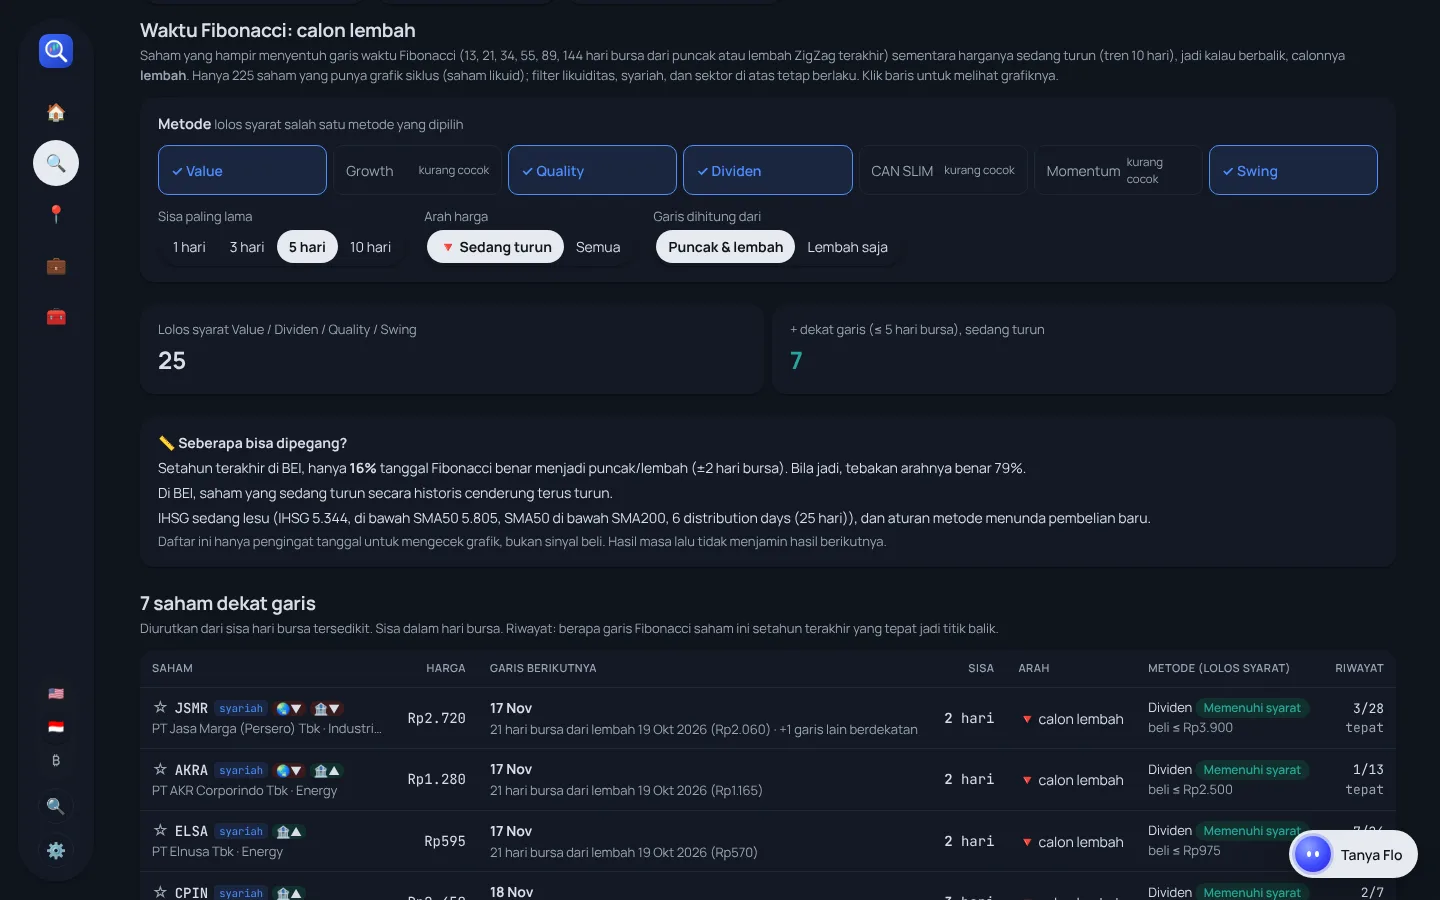
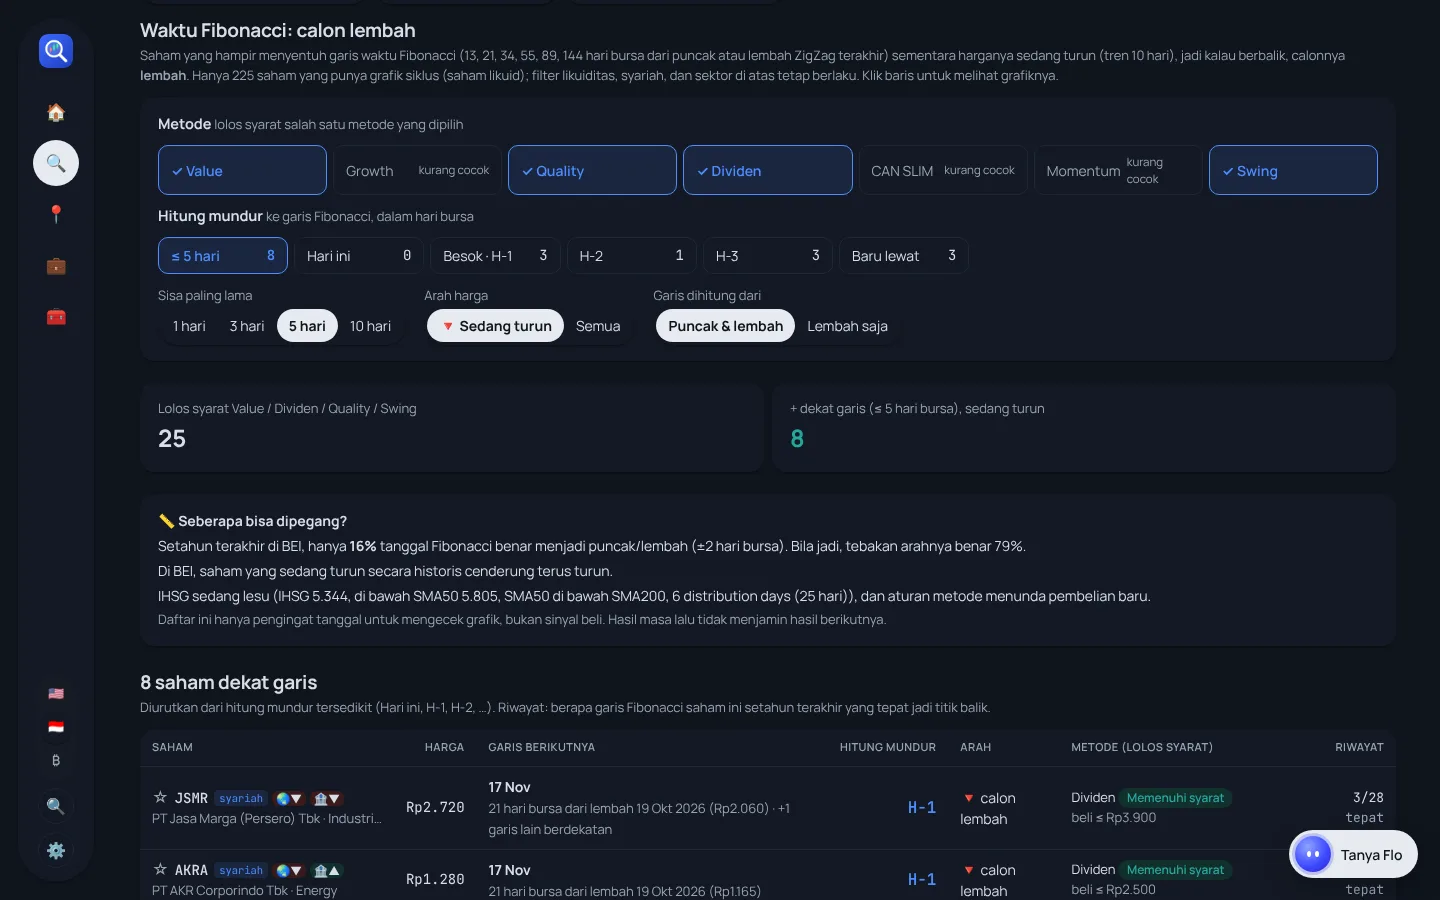
Waktu Fibonacci: hitung mundur Hari ini, H-1, H-2, H-3, dan Baru lewat
Pilihan hitung mundur baru di kartu pengaturan (dihitung dari tanggal
hari ini di zona bursa). Baru lewat menampilkan garis yang lewat 1-3
hari bursa dengan tanda Memantul / Belum jelas / Masih turun dari harga
penutupan. Halaman depan ChartFlow dan galeri diperbarui.

Claude-Session: https://claude.ai/code/session_0176tunsp4Dom3F1p2VBRfoD

diff --git a/index.html b/index.html
@@ -2783,22 +2783,39 @@ function renderScreen(box){
   $("fSave").addEventListener("click",()=>{ const n=prompt("Nama filter favorit:", "Filter "+(fstate().saved.length+1)); if(!n) return; upd(s=>{ s.saved.push({name:n.slice(0,30),rules:s.cur.map(r=>r.slice())}); s.saved=s.saved.slice(-12); }); });
 }
 // ---------- Waktu Fibonacci: saham yang mendekati garis waktu Fibonacci (calon lembah), digabung metode ----------
-const FT_KEY=WP+"ft", FT_DEF=["value","dividend","quality","swing"], FT_SIDE=["growth","momentum","canslim"], FT_N=[1,3,5,10];
+const FT_KEY=WP+"ft", FT_DEF=["value","dividend","quality","swing"], FT_SIDE=["growth","momentum","canslim"], FT_N=[1,3,5,10], FT_CD=["all","0","1","2","3","past"];
 function ftState(){ let s=null; try{ s=JSON.parse(store.get(FT_KEY)||"null"); }catch(e){} s=s&&typeof s==="object"?s:{};
-  return {m:Array.isArray(s.m)?s.m.filter(x=>MID[x]):FT_DEF.slice(), n:FT_N.includes(s.n)?s.n:3, dir:s.dir==="all"?"all":"L", from:s.from==="L"?"L":"all"}; }
-function ftBase(){ return [CYC&&CYC.date,DATA&&DATA.priceDate].filter(Boolean).sort().pop()||""; }
-// Garis waktu Fibonacci yang belum lewat untuk satu saham, diurutkan dari yang paling dekat. k = sisa hari bursa.
-function ftLines(a,st){ const fut=(CYC&&CYC.future)||[], base=ftBase();
-  return (a.tz||[]).filter(x=>x[0]>base&&(st.from==="all"||x[3]===st.from))
-    .map(x=>({d:x[0],f:x[1],od:x[2],ot:x[3],ov:x[4],k:fut.filter(y=>y>base&&y<=x[0]).length}))
-    .filter(x=>x.k>=1).sort((p,q)=>p.k-q.k||p.f-q.f); }
+  return {m:Array.isArray(s.m)?s.m.filter(x=>MID[x]):FT_DEF.slice(), n:FT_N.includes(s.n)?s.n:3, cd:FT_CD.includes(s.cd)?s.cd:"all", dir:s.dir==="all"?"all":"L", from:s.from==="L"?"L":"all"}; }
+function ftToday(){ return new Date(Date.now()+(IS_ID?420:-300)*6e4).toISOString().slice(0,10); } // tanggal di zona bursa (WIB / New York)
+// Garis waktu Fibonacci yang belum lewat, diurutkan dari yang paling dekat. k = hitung mundur dalam hari bursa dari hari ini (0 = hari ini).
+function ftLines(a,st){ const fut=(CYC&&CYC.future)||[], today=ftToday();
+  return (a.tz||[]).filter(x=>x[0]>=today&&(st.from==="all"||x[3]===st.from))
+    .map(x=>({d:x[0],f:x[1],od:x[2],ot:x[3],ov:x[4],k:fut.filter(y=>y>today&&y<=x[0]).length}))
+    .sort((p,q)=>p.k-q.k||p.f-q.f); }
+const ftH=k=>k===0?"Hari ini":"H-"+k;
+// Garis yang baru lewat (1–3 hari bursa sesudahnya) dan apakah harga sudah memantul. Perlu harga harian (series.json).
+function ftPast(o,a,st){
+  const v=SER&&SER.stocks&&SER.stocks[o.ticker], D=SER&&SER.dates; if(!v||!D) return null;
+  const n=v.length, P=(a.tzp||[]).filter(x=>(st.from==="all"||x[3]===st.from)&&(st.dir==="all"||x[10]==="L"))
+    .map(x=>({x,i:D.indexOf(x[0])})).filter(y=>y.i>=0&&n-1-y.i>=1&&n-1-y.i<=3).sort((p,q)=>q.i-p.i);
+  if(!P.length) return null;
+  const {x,i}=P[0], at=v[i], last=v[n-1]; if(at==null||last==null) return null;
+  const win=v.slice(Math.max(0,i-2)).filter(z=>z!=null), lo=Math.min(...win), prev=v.slice(Math.max(0,n-4),n-1).filter(z=>z!=null), pmax=prev.length?Math.max(...prev):null;
+  const s=pmax!=null&&last>pmax&&last>at?"up":last<at?"dn":"flat";
+  return {d:x[0],f:x[1],od:x[2],ot:x[3],ov:x[4],since:n-1-i,at,last,lo,s,up:(last/lo-1)*100,chg:(last/at-1)*100,gd:x[10]};
+}
 function ftList(st){
   const has=filtered().filter(o=>CYC&&CYC.stocks&&CYC.stocks[o.ticker]);
   const lolos=has.filter(o=>!st.m.length||st.m.some(mid=>mget(o,mid).p));
   const res=[];
-  lolos.forEach(o=>{ const a=CYC.stocks[o.ticker]; if(st.dir==="L"&&a.tzdir!=="L") return;
-    const L=ftLines(a,st).filter(x=>x.k<=st.n); if(!L.length) return; res.push({o,a,x:L[0],more:L.length-1}); });
-  res.sort((p,q)=>p.x.k-q.x.k||q.more-p.more||(q.o.mcap||0)-(p.o.mcap||0));
+  if(st.cd==="past"){
+    lolos.forEach(o=>{ const a=CYC.stocks[o.ticker], p=ftPast(o,a,st); if(p) res.push({o,a,p}); });
+    const rk={up:0,flat:1,dn:2}; res.sort((p,q)=>rk[p.p.s]-rk[q.p.s]||p.p.since-q.p.since||(q.o.mcap||0)-(p.o.mcap||0));
+  } else {
+    lolos.forEach(o=>{ const a=CYC.stocks[o.ticker]; if(st.dir==="L"&&a.tzdir!=="L") return;
+      const L=ftLines(a,st).filter(x=>st.cd==="all"?x.k<=st.n:x.k===+st.cd); if(!L.length) return; res.push({o,a,x:L[0],more:L.length-1}); });
+    res.sort((p,q)=>p.x.k-q.x.k||q.more-p.more||(q.o.mcap||0)-(p.o.mcap||0));
+  }
   return {all:has.length,lolos:lolos.length,res};
 }
 function ftTrack(a){ const J=(a.tzp||[]).filter(x=>x[6]!=null); if(!J.length) return '<span class="na">–</span>';
@@ -2806,44 +2823,63 @@ function ftTrack(a){ const J=(a.tzp||[]).filter(x=>x[6]!=null); if(!J.length) re
 function renderFibTime(box){
   if(!CYC&&!CYC_ERR){ box.innerHTML=`<div class="tablebox"><div class="empty">Memuat data siklus…</div></div>`; loadCycles().then(()=>{ if(tab==="fibtime"){ renderTabs(); renderResults(); } }); return; }
   if(!CYC||!CYC.stocks){ box.innerHTML=`<div class="tablebox"><div class="empty">Data siklus belum tersedia. Coba lagi setelah pembaruan data berikutnya.</div></div>`; return; }
-  const st=ftState(), R=ftList(st), TS=tzStat(), mk=(DATA&&DATA.market)||{}, IXN=IS_ID?"IHSG":"S&amp;P 500";
+  const st=ftState();
+  if(!SER){ if(st.cd==="past"){ box.innerHTML=`<div class="tablebox"><div class="empty">Memuat harga harian…</div></div>`; loadSer().then(()=>{ if(tab==="fibtime"){ renderTabs(); renderResults(); } }); return; }
+    loadSer().then(()=>{ if(tab==="fibtime") renderResults(); }); }
+  const R=ftList(st), TS=tzStat(), mk=(DATA&&DATA.market)||{}, IXN=IS_ID?"IHSG":"S&amp;P 500", PAST=st.cd==="past";
   const sv=fn=>{ const s=ftState(); fn(s); store.set(FT_KEY,JSON.stringify(s)); renderTabs(); renderResults(); };
   const chip=m=>{ const on=st.m.includes(m.id), side=FT_SIDE.includes(m.id);
     return `<button type="button" data-ftm="${m.id}" aria-pressed="${on}" style="display:flex;justify-content:space-between;align-items:center;gap:6px;text-align:left;${on?"background:var(--accent-soft);color:var(--accent);border-color:var(--accent);font-weight:600":side?"color:var(--muted)":""}"${side?' title="Metode ini membeli saham yang sedang kuat, jadi jarang bertemu calon lembah"':""}><span>${on?"✓ ":""}${esc(m.name)}</span>${side?'<span style="font-size:11.5px;font-weight:400">kurang cocok</span>':""}</button>`; };
   const seg=(key,opts,cur,label)=>`<div class="seg" role="group" aria-label="${label}">${opts.map(([v,l])=>`<button type="button" data-ft${key}="${v}" aria-pressed="${String(v)===String(cur)}">${l}</button>`).join("")}</div>`;
+  const cdName={all:`≤ ${st.n} hari`,"0":"Hari ini","1":"Besok · H-1","2":"H-2","3":"H-3",past:"Baru lewat"};
+  const cdBtn=k=>{ const on=st.cd===k, n=(k==="past"&&!SER)?null:ftList(Object.assign({},st,{cd:k})).res.length, g=k==="past";
+    return `<button type="button" data-ftc="${k}" aria-pressed="${on}" style="display:flex;justify-content:space-between;align-items:center;gap:6px;${on?(g?"background:var(--good-soft);color:var(--good);border-color:var(--good)":"background:var(--accent-soft);color:var(--accent);border-color:var(--accent)")+";font-weight:600":""}"><span>${cdName[k]}</span>${n!=null?`<span class="num">${n}</span>`:""}</button>`; };
   const mNames=st.m.map(id=>MID[id].name);
-  const rowsH=R.res.slice(0,150).map(({o,a,x,more})=>{
-    const ms=(st.m.length?st.m:M.map(m=>m.id)).filter(mid=>mget(o,mid).p);
-    const mt=ms.map(mid=>{ const u=uv(o,mid), lv=levels(mid,u); return `<div>${esc(MID[mid].name)} ${uchip(u)}${lv?`<br><span class="note">${lv}</span>`:""}</div>`; }).join("");
+  const mCell=o=>{ const ms=(st.m.length?st.m:M.map(m=>m.id)).filter(mid=>mget(o,mid).p);
+    return ms.map(mid=>{ const u=uv(o,mid), lv=levels(mid,u); return `<div>${esc(MID[mid].name)} ${uchip(u)}${lv?`<br><span class="note">${lv}</span>`:""}</div>`; }).join("")||'<span class="na">–</span>'; };
+  const SB={up:["buy","Memantul"],flat:["hold","Belum jelas"],dn:["sell","Masih turun"]};
+  const rowsH=R.res.slice(0,150).map(r=>{ const {o,a}=r;
+    if(PAST){ const p=r.p, b=SB[p.s];
+      return `<tr class="row" data-t="${esc(o.ticker)}" tabindex="0">${stockCell(o)}<td class="num">${usd(o.price)}</td>
+      <td><b>${tgl(p.d)}</b><br><span class="note">${p.f} hari bursa dari ${p.ot==="H"?"puncak":"lembah"} ${tgl(p.od,1)}${p.ov!=null?" ("+usd(p.ov)+")":""}</span></td>
+      <td class="num"><b>${p.since}</b> hari bursa<br><span class="note">sesudahnya</span></td>
+      <td><span class="st ${b[0]}">${b[1]} ${pct(p.chg)}</span><br><span class="note">${p.s==="up"?`di atas penutupan tertinggi 3 hari; +${nf(p.up,1)}% dari terendah ${usd(p.lo)}`:p.s==="dn"?"di bawah harga pada tanggal garis":"belum menembus penutupan tertinggi 3 hari"}</span></td>
+      <td style="font-size:13px">${mCell(o)}</td><td class="num" style="font-size:13px">${ftTrack(a)}</td></tr>`; }
+    const {x,more}=r;
     return `<tr class="row" data-t="${esc(o.ticker)}" tabindex="0">${stockCell(o)}<td class="num">${usd(o.price)}</td>
       <td><b>${tgl(x.d)}</b><br><span class="note">${x.f} hari bursa dari ${x.ot==="H"?"puncak":"lembah"} ${tgl(x.od,1)}${x.ov!=null?" ("+usd(x.ov)+")":""}${more?` · +${more} garis lain berdekatan`:""}</span></td>
-      <td class="num"><b>${x.k}</b> hari</td><td>${dirTxt(a.tzdir)||'<span class="na">–</span>'}</td>
-      <td style="font-size:13px">${mt||'<span class="na">–</span>'}</td><td class="num" style="font-size:13px">${ftTrack(a)}</td></tr>`; }).join("");
+      <td class="num"><b style="font-size:16px;color:var(--accent)">${ftH(x.k)}</b></td><td>${dirTxt(a.tzdir)||'<span class="na">–</span>'}</td>
+      <td style="font-size:13px">${mCell(o)}</td><td class="num" style="font-size:13px">${ftTrack(a)}</td></tr>`; }).join("");
+  const near=PAST?"baru lewat":st.cd==="all"?`dekat garis (≤ ${st.n} hari bursa)`:`garisnya ${st.cd==="0"?"hari ini":"H-"+st.cd}`;
   box.innerHTML=`<div class="rhead"><div class="l"><h2>Waktu Fibonacci${st.dir==="L"?": calon lembah":""}</h2>
       <p class="note">Saham yang hampir menyentuh garis waktu Fibonacci (13, 21, 34, 55, 89, 144 hari bursa dari puncak atau lembah ZigZag terakhir)${st.dir==="L"?" sementara harganya sedang turun (tren 10 hari), jadi kalau berbalik, calonnya <b>lembah</b>":""}. Hanya ${nf(R.all,0)} saham yang punya grafik siklus${IS_ID?" (saham likuid)":""}; filter likuiditas${IS_ID?", syariah,":""} dan sektor di atas tetap berlaku. Klik baris untuk melihat grafiknya.</p></div></div>
     <div class="mcard" style="gap:10px">
       <div><b>Metode</b> <span class="note">lolos syarat salah satu metode yang dipilih${st.m.length?"":"; tidak ada yang dipilih = semua saham"}</span></div>
       <div style="display:grid;grid-template-columns:repeat(auto-fill,minmax(150px,1fr));gap:6px">${M.map(chip).join("")}</div>
+      <div><b>Hitung mundur</b> <span class="note">ke garis Fibonacci, dalam hari bursa</span></div>
+      <div style="display:grid;grid-template-columns:repeat(auto-fill,minmax(130px,1fr));gap:6px">${FT_CD.map(cdBtn).join("")}</div>
+      ${PAST?`<p class="note" style="margin:0">Baru lewat = garis yang tanggalnya sudah lewat 1–3 hari bursa. <b>Memantul</b> = penutupan terakhir di atas penutupan tertinggi 3 hari sebelumnya dan di atas harga pada tanggal garis. <b>Masih turun</b> = di bawah harga pada tanggal garis.</p>`:""}
       <div style="display:flex;flex-wrap:wrap;gap:10px 18px;align-items:center">
-        <span><span class="note">Sisa paling lama</span><br>${seg("n",FT_N.map(n=>[n,n+" hari"]),st.n,"Sisa hari bursa")}</span>
-        <span><span class="note">Arah harga</span><br>${seg("d",[["L","🔻 Sedang turun"],["all","Semua"]],st.dir,"Arah harga")}</span>
+        ${st.cd==="all"?`<span><span class="note">Sisa paling lama</span><br>${seg("n",FT_N.map(n=>[n,n+" hari"]),st.n,"Sisa hari bursa")}</span>`:""}
+        <span><span class="note">Arah harga${PAST?" sebelum tanggal garis":""}</span><br>${seg("d",[["L","🔻 Sedang turun"],["all","Semua"]],st.dir,"Arah harga")}</span>
         <span><span class="note">Garis dihitung dari</span><br>${seg("f",[["all","Puncak & lembah"],["L","Lembah saja"]],st.from,"Titik awal garis")}</span>
       </div></div>
     <div style="display:grid;grid-template-columns:repeat(2,minmax(0,1fr));gap:8px;margin-top:10px">
       <div class="mcard" style="gap:2px"><span class="note">${st.m.length?"Lolos syarat "+esc(mNames.join(" / ")):"Saham dengan grafik siklus"}</span><b style="font-size:24px">${nf(R.lolos,0)}</b></div>
-      <div class="mcard" style="gap:2px"><span class="note">+ dekat garis (≤ ${st.n} hari bursa)${st.dir==="L"?", sedang turun":""}</span><b style="font-size:24px" class="ok">${nf(R.res.length,0)}</b></div></div>
+      <div class="mcard" style="gap:2px"><span class="note">+ ${near}${st.dir==="L"?", sedang turun":""}</span><b style="font-size:24px" class="ok">${nf(R.res.length,0)}</b></div></div>
     <div class="mcard" style="margin-top:10px;gap:4px;border-left:4px solid var(--warn);border-radius:0 6px 6px 0;font-size:14px">
       <b>📏 Seberapa bisa dipegang?</b>
       ${TS?`<span>Setahun terakhir di ${IS_ID?"BEI":"saham AS"}, hanya <b>${nf(TS.hit,0)}%</b> tanggal Fibonacci benar menjadi puncak/lembah (±2 hari bursa). Bila jadi, tebakan arahnya benar ${nf(TS.dir,0)}%.</span>`:""}
       ${IS_ID?`<span>${T("Di BEI, saham yang sedang turun cenderung terus turun. Jangan menangkap pisau jatuh.","Di BEI, saham yang sedang turun secara historis cenderung terus turun.")}</span>`:""}
       ${mk.ok===false?`<span>${IXN} sedang lesu${mk.text?" ("+esc(mk.text)+")":""}, ${T("jadi pembelian baru sebaiknya ditunda","dan aturan metode menunda pembelian baru")}.</span>`:""}
       <span class="note">${T("Pakai daftar ini sebagai pengingat untuk mengecek grafik. Tunggu tanda berbalik (harga naik di atas puncak candle sebelumnya, volume naik) dan tetap pakai batas rugi.","Daftar ini hanya pengingat tanggal untuk mengecek grafik, bukan sinyal beli. Hasil masa lalu tidak menjamin hasil berikutnya.")}</span></div>
-    <div class="rhead" style="margin-top:14px"><div class="l"><h2>${nf(R.res.length,0)} saham dekat garis</h2><p class="note">Diurutkan dari sisa hari bursa tersedikit. Sisa dalam hari bursa. Riwayat: berapa garis Fibonacci saham ini setahun terakhir yang tepat jadi titik balik.</p></div></div>
-    <div class="tablebox"><table><thead><tr><th>Saham</th><th class="num">Harga</th><th>Garis berikutnya</th><th class="num">Sisa</th><th>Arah</th><th>Metode (lolos syarat)</th><th class="num">Riwayat</th></tr></thead><tbody>
-    ${rowsH||`<tr><td colspan="7" class="empty">Belum ada saham yang cocok. Coba tambah metode, perpanjang sisa hari, atau pilih arah "Semua".</td></tr>`}</tbody></table></div>
+    <div class="rhead" style="margin-top:14px"><div class="l"><h2>${nf(R.res.length,0)} saham ${PAST?"baru lewat garis":"dekat garis"}</h2><p class="note">${PAST?"Yang memantul ditampilkan paling atas. Harga dari penutupan harian.":"Diurutkan dari hitung mundur tersedikit (Hari ini, H-1, H-2, …)."} Riwayat: berapa garis Fibonacci saham ini setahun terakhir yang tepat jadi titik balik.</p></div></div>
+    <div class="tablebox"><table><thead><tr><th>Saham</th><th class="num">Harga</th><th>${PAST?"Garis":"Garis berikutnya"}</th><th class="num">${PAST?"Lewat":"Hitung mundur"}</th><th>${PAST?"Sesudahnya":"Arah"}</th><th>Metode (lolos syarat)</th><th class="num">Riwayat</th></tr></thead><tbody>
+    ${rowsH||`<tr><td colspan="7" class="empty">${PAST&&SER&&!Object.keys(SER.stocks||{}).length?"Harga harian belum bisa dimuat.":"Belum ada saham yang cocok. Coba tambah metode, pilih hitung mundur lain, atau pilih arah \"Semua\"."}</td></tr>`}</tbody></table></div>
     ${R.res.length>150?`<p class="note">Menampilkan 150 dari ${R.res.length}.</p>`:""}
-    <p class="note" style="margin-top:8px">Garis memakai titik balik ZigZag yang sama dengan halaman Siklus. "Lolos syarat" = semua syarat beli metode terpenuhi; status di sebelahnya bisa tetap "Tunggu" bila harga di atas batas beli atau pasar sedang lesu.</p>`;
+    <p class="note" style="margin-top:8px">Garis memakai titik balik ZigZag yang sama dengan halaman Siklus. Hitung mundur memakai kalender bursa (akhir pekan dan libur tidak dihitung). "Lolos syarat" = semua syarat beli metode terpenuhi; status di sebelahnya bisa tetap "Tunggu" bila harga di atas batas beli atau pasar sedang lesu.</p>`;
   box.querySelectorAll("[data-ftm]").forEach(b=>b.addEventListener("click",()=>sv(s=>{ const id=b.dataset.ftm; s.m=s.m.includes(id)?s.m.filter(x=>x!==id):s.m.concat([id]); })));
+  box.querySelectorAll("[data-ftc]").forEach(b=>b.addEventListener("click",()=>sv(s=>{ s.cd=b.dataset.ftc; })));
   box.querySelectorAll("[data-ftn]").forEach(b=>b.addEventListener("click",()=>sv(s=>{ s.n=+b.dataset.ftn; })));
   box.querySelectorAll("[data-ftd]").forEach(b=>b.addEventListener("click",()=>sv(s=>{ s.dir=b.dataset.ftd; })));
   box.querySelectorAll("[data-ftf]").forEach(b=>b.addEventListener("click",()=>sv(s=>{ s.from=b.dataset.ftf; })));

diff --git a/chartflow/public/index.html b/chartflow/public/index.html
@@ -244,7 +244,7 @@ input.code{font-size:22px;letter-spacing:.18em;text-align:center;text-transform:
     <div class="card"><div class="e">🧭</div><h3>7 metode, bahasa sederhana</h3><p>Setiap saham dinilai 7 metode. Keterangannya ringkas: memenuhi syarat, belum di area beli, atau ada tanda jual, beserta alasannya.</p></div>
     <div class="card"><div class="e">📏</div><h3>Hasil uji terbuka</h3><p>Satu halaman berisi semua hasil uji mundur 9–10 tahun: metode, Area beli, lampu pasar, garis tren, Jalur, pola candle, Fibonacci, dan dividen. Yang tidak terbukti ditulis apa adanya.</p></div>
     <div class="card"><div class="e">🎛</div><h3>Filter sendiri</h3><p>Susun aturan sendiri seperti screener Stockbit: PER, ROE, yield, RSI, jarak dari MA, status Momentum, pasar sehat, dan lainnya. Ada contoh siap pakai Momentum + MA200 + pasar sehat, gabungan dengan hasil uji 10 tahun terbaik di BEI. Simpan sebagai favorit.</p></div>
-    <div class="card"><div class="e">⏳</div><h3>Waktu Fibonacci</h3><p>Daftar saham yang hampir menyentuh garis waktu Fibonacci (13–144 hari bursa dari puncak atau lembah terakhir) sementara harganya sedang turun, jadi calon lembah. Bisa digabung dengan metode Value, Dividen, Quality, atau Swing, lengkap dengan sisa hari bursa dan riwayat ketepatannya per saham. Hasil ujinya ditampilkan: hanya sebagian kecil tanggal benar menjadi titik balik, jadi daftar ini pengingat untuk mengecek grafik, bukan sinyal.</p></div>
+    <div class="card"><div class="e">⏳</div><h3>Waktu Fibonacci</h3><p>Daftar saham yang hampir menyentuh garis waktu Fibonacci (13–144 hari bursa dari puncak atau lembah terakhir) sementara harganya sedang turun, jadi calon lembah. Bisa digabung dengan metode Value, Dividen, Quality, atau Swing, lengkap dengan hitung mundur (Hari ini, H-1, H-2, H-3), bagian Baru lewat yang menandai apakah harga sudah memantul atau masih turun, dan riwayat ketepatannya per saham. Hasil ujinya ditampilkan: hanya sebagian kecil tanggal benar menjadi titik balik, jadi daftar ini pengingat untuk mengecek grafik, bukan sinyal.</p></div>
     <div class="card"><div class="e">🔥</div><h3>Ramai hari ini</h3><p>Saham dengan volume melonjak, yang mendekati resistance, serta naik dan turun terbesar hari ini. Ikut diperbarui selama bursa buka.</p></div>
     <div class="card"><div class="e">🔍</div><h3>Pencarian cepat</h3><p>Ketik kode atau nama perusahaan dari halaman mana pun, rinciannya langsung terbuka.</p></div>
     <div class="card"><div class="e">🫧</div><h3>Flo, asisten ChartFlow</h3><p>Ajukan pertanyaan bebas, misalnya "kenapa BBRI ditunda?" atau "bedanya Value dan Quality?". Flo AI menjawab hanya dari data ChartFlow hari ini, dan tombol pertanyaan cepat dihitung langsung dari aturan. Bukan saran investasi.</p></div>
